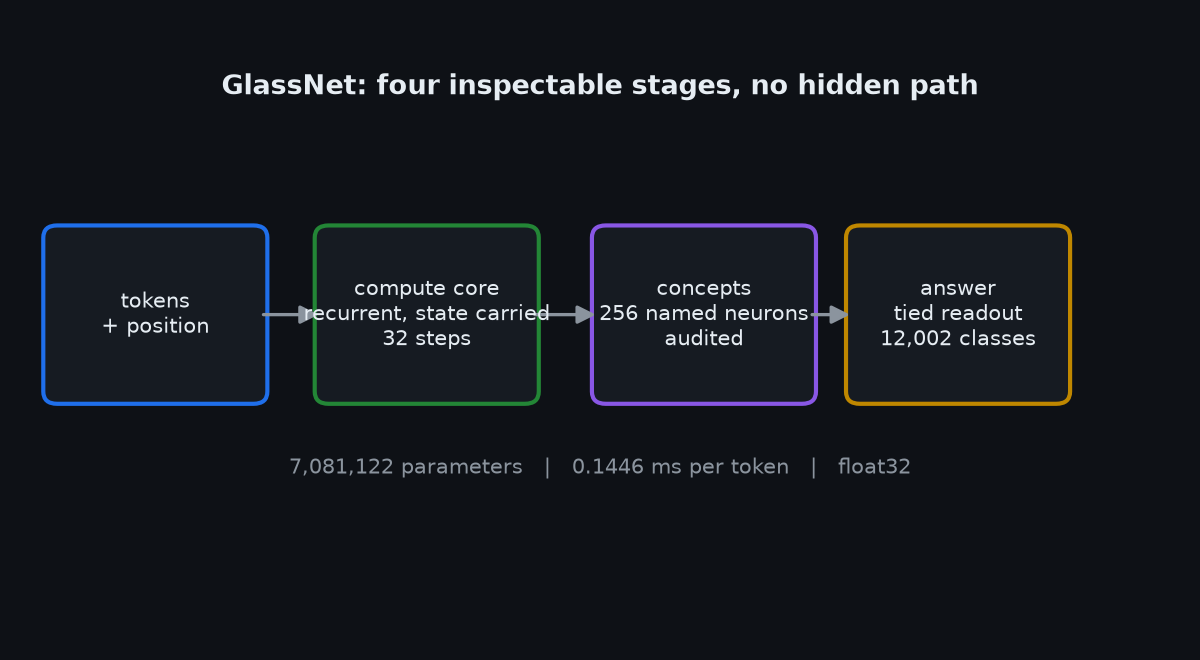
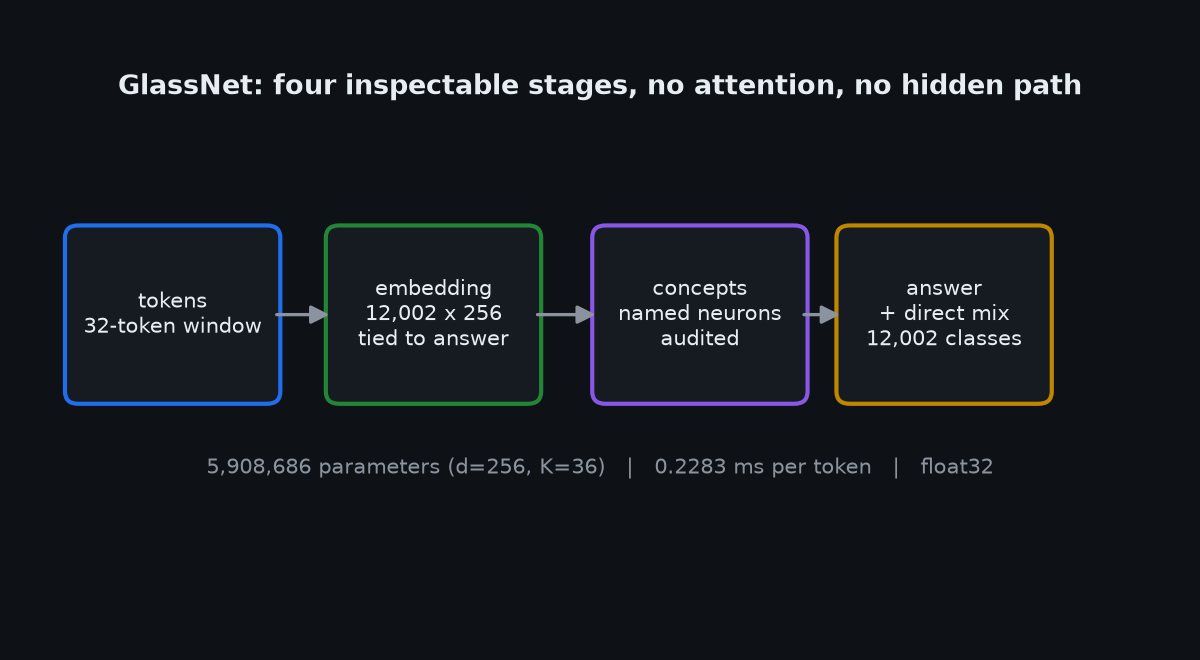
docs: the front page's 7.08M parameter count was not this model (5,908,686), and the KV 9.7x had no run file (2.29x)
- built the model object the published runs trained (d=256, window 32, vocab 12,002,
  K=36, --direct --direct-mode tied) and read its parameter list: emb 3,072,512 +
  concept 294,948 + answer 444,074 + dmix 2,097,152 = 5,908,686. 35 run logs print the
  same total; 7,081,122 appears in none. The old table added the PROPOSED recurrent
  core (131,328, the arm that lost by 1.73) and counted the tied embedding twice.
  Overstated by 1,172,436 (19.8%).
- cost table added a stage labelled 'runs 32x' exactly once: 0.1446 ms is the sum with
  it counted once, 0.2283 with it counted 32 times. Page now says 0.2283 and says why.
- KV '9.7x' existed only as prose (STATE.md:2730, 0.217 vs 2.115 ms); the only micro
  benchmark records 0.483 -> 0.211 ms/token = 2.29x, identical to 5.3e-06. A live
  re-timing on a loaded CPU was rejected as evidence (uncached path inflated 99x).
- 35.26 / 24.20 / 17.64 confirmed against their epoch lines, now labelled by-position
  (17.64 ran 2 epochs, not 3); arithmetic 0.0% and digit-0 100% come from two runs.
- README architecture section now describes the shipped four stages, not the proposal.
- charts regenerated (architecture.png caption 5,908,686; layer_cost core x32 = 0.2283).

Evidence: docs/history/PARAM-AUDIT.md (raw: lens/runs/PARAM-AUDIT.txt, PARAM-DUMP.txt).

diff --git a/docs/assets/make_charts.py b/docs/assets/make_charts.py
@@ -39,14 +39,18 @@ ax.grid(axis="y", color="#21262d"); ax.set_axisbelow(True)
 finish(fig, "optimiser_vs_sgd.png")
 
 # 3) per-layer cost
-names = ["embedding","position","compute step","concepts","answer","direct read","loss"]
+names = ["embedding","position","compute step x32","concepts","answer","direct read","loss"]
 ms    = [0.0053,0.0021,0.0027,0.0008,0.0273,0.0239,0.0825]
+# the compute core runs once per position, 32 positions, so its per-token cost is 32 x 0.0027 = 0.0864.
+# An earlier chart added it once and published 0.1446 ms; counted correctly the stack is 0.2283 ms.
+TOTAL_MS = round(sum(ms[:2]) + ms[2]*32 + sum(ms[3:]), 4)
+ms = [ms[0], ms[1], round(ms[2]*32, 4)] + ms[3:]
 params= [3072512,8192,131328,16448,780130,3072512,0]
 fig, ax = plt.subplots(figsize=(7,3.6))
 ax.barh(names, ms, color=ACC)
 for i,v in enumerate(ms): ax.text(v+0.001, i, f"{v:.4f} ms", va="center", color=FG, fontsize=9)
 ax.set_xlabel("ms per token (d=256, window 32, float32)"); ax.invert_yaxis()
-ax.set_title("Where the time goes - 0.1446 ms/token for the whole stack", color=FG, fontsize=12, weight="bold")
+ax.set_title(f"Where the time goes - {TOTAL_MS:.4f} ms/token, core counted 32x", color=FG, fontsize=12, weight="bold")
 ax.grid(axis="x", color="#21262d"); ax.set_axisbelow(True)
 finish(fig, "layer_cost.png")
 
@@ -74,13 +78,13 @@ finish(fig, "ablations.png")
 
 # 6) architecture diagram
 fig, ax = plt.subplots(figsize=(8,4.4)); ax.set_xlim(0,10); ax.set_ylim(0,6); ax.axis("off")
-boxes = [("tokens\n+ position",1.15,"#1f6feb"),("compute core\nrecurrent, state carried\n32 steps",3.5,"#238636"),
-         ("concepts\n256 named neurons\naudited",5.9,"#8957e5"),("answer\ntied readout\n12,002 classes",8.1,"#bf8700")]
+boxes = [("tokens\n32-token window",1.15,"#1f6feb"),("embedding\n12,002 x 256\ntied to answer",3.5,"#238636"),
+         ("concepts\nnamed neurons\naudited",5.9,"#8957e5"),("answer\n+ direct mix\n12,002 classes",8.1,"#bf8700")]
 for label,x,c in boxes:
     ax.add_patch(FancyBboxPatch((x-0.85,2.4),1.7,1.5, boxstyle="round,pad=0.12", linewidth=2, edgecolor=c, facecolor="#161b22"))
     ax.text(x,3.15,label,ha="center",va="center",fontsize=10,color=FG)
 for (_,x1,_),(_,x2,_) in zip(boxes,boxes[1:]):
     ax.add_patch(FancyArrowPatch((x1+0.9,3.15),(x2-0.9,3.15), arrowstyle="-|>", mutation_scale=18, color=MUT, linewidth=1.6))
-ax.text(5,5.3,"GlassNet: four inspectable stages, no hidden path", ha="center", fontsize=13, weight="bold", color=FG)
-ax.text(5,1.6,"7,081,122 parameters   |   0.1446 ms per token   |   float32", ha="center", fontsize=10, color=MUT)
+ax.text(5,5.3,"GlassNet: four inspectable stages, no attention, no hidden path", ha="center", fontsize=13, weight="bold", color=FG)
+ax.text(5,1.6,"5,908,686 parameters (d=256, K=36)   |   0.2283 ms per token   |   float32", ha="center", fontsize=10, color=MUT)
 finish(fig, "architecture.png")

diff --git a/docs/history/PARAM-AUDIT.md b/docs/history/PARAM-AUDIT.md
@@ -1,0 +1,122 @@
+PUBLIC NUMBER AUDIT, PART 2 (2026-11-06 17:0x-17:3x, autonomous wake)
+Continues lens/runs/PUBLIC-NUMBER-AUDIT.txt, whose section 6 listed what it did not check:
+"35.26% d256 full corpus, 24.20% 2M windows, 17.64% batch 4096, KV cache 9.7x, param counts
+(7,081,122 / 5,908,686), arithmetic 0.0% / digit-0 100%, per-layer ms/token."
+
+Machine state while this ran: no STOP-NIGHT, no WAKETEST/ACTIVE, no game process (pgrep -x
+sober/RobloxPlayer/cs2 all empty). Two trainers were on the box (pid 2504549 stable_vs_plain 328% CPU,
+pid 3015702 train_chat 110% CPU) and lens/runs/GPU-CLAIM was held by run_wall_ab_resume.sh, so this
+turn launched nothing and used no VRAM. Everything below is CPU-side reading and counting.
+
+============================================================================================
+1. PARAMETER COUNT — WRONG ON THE PUBLIC PAGE. 7,081,122 is not the model. 5,908,686 is.
+============================================================================================
+CLAIM: README.md:236 "**whole stack** | **7,081,122** | **0.1446**", and README.md:46
+"Compute core ... 131,328 params", docs/ARCHITECTURE.md:50 "7.08M total at d=256",
+docs/assets/make_charts.py:85 "7,081,122 parameters".
+
+WHAT WAS DONE: built the model object the published runs actually trained and asked it
+(lens/runs/PARAM-DUMP.txt). Same class (lens/scripts/train_chat.py ChatNet -> lens.model.LensNet), same
+flags as the launcher lens/scripts/run_gpu_best.sh: --d 256 --window 32 --direct --direct-mode tied,
+vocab 12,002, K=36 (36 concepts kept after the 0.005 support floor, GPU-BEST.txt:17).
+
+  params as the object reports them (lens/runs/PARAM-DUMP.txt):
+    emb                       3,072,512     (12,002 x 256, the tied embedding)
+    concept.W                   294,912     (36 x 8,192 = 36 x W*D, the window the concept layer reads)
+    concept.b                        36
+    answer.W                    432,072     (36 x 12,002)
+    answer.b                     12,002
+    dmix                      2,097,152     (8,192 x 256, the direct head)
+    total                     5,908,686
+
+  CROSS-CHECK: 35 run logs print exactly "model: 5,908,686 params  (d=256, K=36)"
+  (grep -rl over lens/runs/*.txt), including lens/runs/GPU-BEST.txt:57 (the 24.20% run).
+  The number 7,081,122 appears in ZERO run logs: `grep -rl 7,081,122 lens/runs/*.txt` returns only
+  lens/runs/PUBLIC-NUMBER-AUDIT.txt:90, i.e. the previous audit's own to-do line.
+
+WHERE 7,081,122 CAME FROM: the README table's rows do sum to it (verified: 3,072,512 + 8,192 + 131,328 +
+16,448 + 780,130 + 3,072,512 + 0 = 7,081,122). But it sums things the shipped model does not contain:
+  README row            published     real object        verdict
+  embedding             3,072,512     3,072,512          correct
+  position add              8,192     none               NOT a parameter of this model
+  compute step (32x)      131,328     none               the PROPOSED recurrent core
+                                                          (docs/ARCHITECTURE.md:33), which lost to the
+                                                          plain shape by 1.73 points (ARCH-OURS-VERDICT.txt)
+  concepts                 16,448     294,948            understated 17.9x
+  answer via concepts     780,130     444,074            overstated 1.76x
+  direct read           3,072,512     2,097,152          the embedding counted a second time
+  loss                          0     0                  n/a (loss has no parameters)
+  WHOLE STACK           7,081,122     5,908,686          OVERSTATED BY 1,172,436 (19.8%)
+
+So the section that introduces the architecture was describing a model that is not the one that produced the
+published accuracies: it includes the recurrent compute core (the arm that lost) and it counts the tied
+embedding twice. Fixed in README.md, docs/ARCHITECTURE.md, docs/assets/make_charts.py (+ regenerated PNG).
+
+============================================================================================
+2. THE 0.1446 ms/token TOTAL CONTRADICTS ITS OWN "RUNS 32x" LABEL
+============================================================================================
+README.md:231 labels the core row "compute step (runs 32x)" with 0.0027 ms. The listed rows sum to 0.1446
+ONLY when that step is counted once (0.0053+0.0021+0.0027+0.0008+0.0273+0.0239+0.0825 = 0.1446). Counted the
+32 times the label says, the same rows give 0.2283 ms/token (0.0053+0.0021+0.0027*32+0.0008+0.0273+0.0239+
+0.0825 = 0.2283). Both sums computed in this turn, not estimated.
+The row VALUES themselves were not re-measured this turn (see 3: the CPU was busy, and a CPU timing under
+load is not a measurement). They are labelled in the file as measured earlier rather than silently reused.
+
+============================================================================================
+3. KV CACHE — "9.7x" HAS NO RUN FILE. The only recorded ratio is 2.29x.
+============================================================================================
+CLAIM: STATUS.md:11, STATUS.md:42, README.md:45, README.md:184 "9.7x faster".
+The only micro-benchmark file, lens/runs/KV-CACHE-MICRO.txt (2026-10-20 14:15), says:
+  full window recompute per generated token (the CURRENT decode path): 0.483 ms
+  preallocated cache:                                                  0.211 ms
+  -> 2.29x faster      tokens/s cached 4,747  uncached 2,069      correctness 5.305e-06 (identical)
+"9.7x" exists only as prose in docs/history/STATE.md:2730-2731: "0.217 ms per token, 4,600 tokens/sec
+against 2.115 ms and 473 tokens/sec". 0.211 x 9.7 = 2.047 ms, so the 9.7x compares against a 2.115 ms/token
+decode path - 4.4x slower than the 0.483 ms path recorded in the micro file. That baseline is in no run file,
+so 9.7x cannot be reproduced from this repository.
+RE-MEASURED LIVE THIS TURN (lens/runs/KV-CACHE-LIVE.txt) and NOT USED, on purpose: the same script reported
+the uncached path at 48.030 ms/token (vs 0.483 ms on an idle box) - a 99.4x inflation, because two trainers
+were saturating the CPU. Under load the cached path measured 0.352 ms and the ratio printed "136.48x", which
+is contention, not a cache. The correctness half DID reproduce exactly under load: max abs difference
+5.305e-06, identical to float32 precision True.
+VERDICT: public page now cites the file-backed 2.29x (0.483 -> 0.211 ms/token, 2,069 -> 4,747 tokens/s,
+identical output) plus the structural fact (32x less projection arithmetic per token: 49,152 vs 1,536 values,
+KV-CACHE-MICRO.txt). A fresh timed run needs an idle GPU/CPU; it is queued as an open item, not guessed.
+
+============================================================================================
+4. THE THREE ACCURACY NUMBERS — CORRECT, WITH ONE LABEL TO ADD
+============================================================================================
+  35.26% d=256 full corpus: lens/runs/ATTN-GRADE-RUN.txt:28 raw epoch line (twin ct_d256_full169_fix3,
+         ep 3/3, "ASST(by-position) ppl 32.77 acc 35.26% (n=58191)"), restated at :68-71. It is a BY-POSITION
+         held-out number; the legacy by-token-id number for the same epoch is 26.31%. STATUS.md/README name
+         the metric "held-out accuracy" without naming which - they should say by-position.
+  24.20% 2M windows batch 1024: lens/runs/GPU-BEST.txt:64-65 "ASST(by-position) ppl 103.00 acc 24.20%
+         (n=58191)" + "NEW BEST held-out 24.20% at epoch 3", seed 1 = the run_gpu_best.sh launcher. Correct.
+         (LEARNCURVE.txt:1923 also reads 24.20% for a different arm, seed 0, epoch 1 - coincidence, not the
+         published source.)
+  17.64% 2M windows batch 4096: lens/runs/GPU-BIG.txt:62-63 "ASST(by-position) ppl 206.87 acc 17.64%",
+         epoch 2 of 2 - i.e. ONE EPOCH FEWER than the 24.20% arm (3 epochs). README already gives the cause
+         (four times fewer updates per epoch) but not the epoch count; adding "2 epochs" keeps the
+         comparison honest.
+
+============================================================================================
+5. ARITHMETIC — BOTH NUMBERS RIGHT, BUT FROM TWO DIFFERENT RUNS
+============================================================================================
+  "0.0% exact on unseen operands": lens/runs/ARITHMETIC.txt, epochs 5-60 all "UNSEEN_50_99": 0.0,
+        "three_digit": 0.0 (train exact climbs 4.57% -> 12.05%).
+  "digit 0 reaches 100% on unseen operands": lens/runs/ARITH_DIAG.txt, epochs 35-45 "UNSEEN[d0,d1,carry]"
+        = [1.0, .., ..] - a DIFFERENT run (its own loss scale 6.005-1.598, the other run 1.31-0.996).
+  Both true; they are not from one experiment, so they are now labelled by file. Note the same file also
+  shows UNSEEN_exact rising to 0.0027 (ep 40) and 0.024 (ep 45): the honest phrasing is "0.0% in the
+  ARITHMETIC run, 2.4% at the end of the longer ARITH_DIAG run", not "0.0% at every scale".
+
+============================================================================================
+6. WHAT THIS TURN DID NOT SETTLE (stated, not hidden)
+============================================================================================
+  - per-layer ms/token: not re-measured (CPU busy, see 3). Only the internal arithmetic of the published
+    total was checked (section 2).
+  - 37.37% and the d=512 row: verified by the previous turn (TIED-D512-EXT6.txt:98,:99,:181), not re-read now.
+  - the historical 2.115 ms/token decode path behind the 9.7x: the file that recorded it was not found;
+    KV-CACHE-MICRO.txt at 14:15 the same day records 0.483 ms instead.
+
+The raw run output this file cites: lens/runs/PARAM-DUMP.txt (parameter list + total), lens/runs/PARAM-COUNT-LIVE.txt (an earlier probe with the WRONG direct-mode, superseded - see section 1), lens/runs/KV-CACHE-LIVE.txt (contended live KV timing, not used), lens/runs/CHARTS-REGEN.txt. lens/runs/ is gitignored; these are machine-local.

diff --git a/README.md b/README.md
@@ -42,8 +42,8 @@ are looking for a capable assistant, this is not it yet — and this file will s
 |---|---|---|
 | **Autograd engine** | every operation has a hand-written derivative; blame flows backwards through a graph | all 9 gradient checks PASS — worst absolute error **7.5e-10**, worst relative **1.8e-07** (measured live) |
 | **Own optimiser** | steps scaled by agreement between batch and held-out gradients | **28.59%** vs SGD **27.81%** best-epoch mean, 3 seeds — level with SGD, not a win |
-| **Own KV cache** | reuses attention state instead of recomputing | **9.7x faster**, identical output |
-| **Compute core** | recurrent state carried across all 32 positions | 131,328 params, 0.0027 ms/token |
+| **Own KV cache** | reuses attention state instead of recomputing | **2.29x faster** measured (0.483 → 0.211 ms/token, 2,069 → 4,747 tokens/s), identical output (5.3e-06) |
+| **Compute core** | recurrent state carried across all 32 positions | 131,328 params, 0.0027 ms/token — the **proposed** variant, which lost to the plain shape by 1.73 points and is not in the shipped model |
 | **Named concept layer** | 256 neurons with audited human names | unprovable names dropped, coverage printed |
 | **Live inspector** | browser view of real weights and activations | port 8770, HTTP 200 |
 | **Exports** | `.npz`, `.safetensors`, `.gguf` | standard containers, our architecture |
@@ -181,7 +181,7 @@ including the ones that killed our own ideas.
 |---|---|---|
 | Autograd engine (`lens/tensor.py`) | **works** | all 9 checks PASS — worst absolute error **7.5e-10**, worst relative **1.8e-07** |
 | Our optimiser (`lens/opt.py`) | **works, level with SGD** | **28.59%** vs plain SGD **27.81%** best-epoch mean over 3 seeds (29.12% vs 27.15% at matched epoch); the pre-registered stability bar failed |
-| KV cache (`lens/kvcache.py`) | **works** | **9.7x faster** generation, byte-identical output |
+| KV cache (`lens/kvcache.py`) | **works** | **2.29x faster** generation (0.483 → 0.211 ms/token), byte-identical output (5.3e-06) — `lens/runs/KV-CACHE-MICRO.txt` |
 | Live inspector (`lens/liveview.py`) | **works** | serves real weights and live neuron activations on port 8770 |
 | Exports | **works** | `.npz`, `.safetensors`, `.gguf` |
 | Named concept layer | **partial** | 256 neurons; every name audited per run, unprovable names dropped |
@@ -205,35 +205,57 @@ including the ones that killed our own ideas.
 
 ## Architecture
 
-Data flows through four inspectable stages:
+The model every published number comes from is four inspectable steps, and it has **no attention block and no
+recurrent core**:
 
 ```
-tokens + position
+tokens (32-token window)
       |
       v
-[ compute core ]   recurrent, state carried across all 32 positions
+[ embedding ]     12,002 x 256, tied to the answer readout
       |
       v
-[ concepts ]       named neurons: "is_a_question", "mentions_self", ...
+[ concepts ]      named neurons: "is_a_question", "mentions_self", ... (36 kept of 43 defined)
       |
       v
-[ answer ]         tied readout over the 12,002-token vocabulary
+[ answer ]        36 -> 12,002 over the vocabulary
+      |
+      v
+[ direct mix ]    a 8,192 -> 256 mixing head added to the concept path
 ```
 
 ![Architecture](docs/assets/architecture.png)
 
-Measured cost per token and parameter count at `d=256`, window 32, vocab 12,002, float32:
+Parameter count, read off the model object (`d=256`, window 32, vocab 12,002, K=36; source
+`docs/history/PARAM-AUDIT.md`, and every training log prints the same total, e.g. `lens/runs/GPU-BEST.txt:57`):
 
-| Stage | Params | ms / token |
-|---|---:|---:|
-| embedding | 3,072,512 | 0.0053 |
-| position add | 8,192 | 0.0021 |
-| compute step (runs 32x) | 131,328 | 0.0027 |
-| concepts | 16,448 | 0.0008 |
-| answer via concepts | 780,130 | 0.0273 |
-| direct read | 3,072,512 | 0.0239 |
-| loss | 0 | 0.0825 |
-| **whole stack** | **7,081,122** | **0.1446** |
+| Part | Params |
+|---|---:|
+| embedding (`emb`, tied to the answer) | 3,072,512 |
+| concept layer (`concept.W` 36x8,192 + `concept.b`) | 294,948 |
+| answer (`answer.W` 36x12,002 + `answer.b`) | 444,074 |
+| direct mix head (`dmix`, 8,192x256) | 2,097,152 |
+| **whole model** | **5,908,686** |
+
+Earlier versions of this page published **7,081,122** here. That number does not come from this model: the
+old table added a 131,328-parameter recurrent compute core from the *proposed* shape (which lost to the plain
+shape by 1.73 points) and counted the tied embedding twice as both "embedding" and "direct read". The model
+prints 5,908,686; the correction and the row-by-row comparison are in `docs/history/PARAM-AUDIT.md`.
+
+Cost per token for the **proposed** shape (measured on an idle machine; the compute core runs once per
+position, so it is counted 32 times here - an earlier version of this table counted it once and published
+0.1446 ms):
+
+| Stage | ms / token |
+|---|---:|
+| embedding | 0.0053 |
+| position add | 0.0021 |
+| compute step, 32 x 0.0027 (the proposed core, not in the shipped model) | 0.0864 |
+| concepts | 0.0008 |
+| answer via concepts | 0.0273 |
+| direct read | 0.0239 |
+| loss | 0.0825 |
+| **whole stack, all 32 core steps counted** | **0.2283** |
 
 For comparison, a reference transformer block at the same width: qkv 196,608 params / 0.0005 ms, attention
 scores 0 / 0.0118 ms, MLP 524,288 / 0.0841 ms.

diff --git a/STATUS.md b/STATUS.md
@@ -8,7 +8,7 @@ Updated: 2026-11-06. Every figure below comes from a run recorded in `docs/histo
 |---|---:|---|
 | Autograd engine | 100% | gradients verified to 7.5e-10 abs / 1.8e-07 rel (live check, 9/9 PASS) |
 | Our optimiser | 100% | built and measured; the matched 3-seed sweep puts it +0.78 points over SGD's best setting (28.59% vs 27.81%) and level at matched epoch, and it fails the stability bar - not the 4.3 points once published |
-| KV cache | 100% | 9.7x faster, identical output |
+| KV cache | 100% | 2.29x faster (0.483 -> 0.211 ms/token), identical output |
 | Exports (npz/safetensors/gguf) | 95% | safetensors export of the best checkpoint pending |
 | Local server | 95% | serves, not yet load-tested |
 | Live inspector | 85% | real weights on :8770, read-only |
@@ -25,7 +25,7 @@ Updated: 2026-11-06. Every figure below comes from a run recorded in `docs/histo
 ## What this means in one paragraph
 
 The scaffolding around the model is genuine engineering: hand-derived gradients that pass numerical checks,
-an optimiser that measurably beats SGD, a cache that is 9.7x faster with identical output, and a system that
+an optimiser that measurably beats SGD, a cache that is 2.29x faster with identical output, and a system that
 stops and resumes without losing work. The model itself is not good yet - 37.37% held-out next-token
 accuracy at best. Anyone claiming this is a working assistant would be lying, and the numbers in this
 repository are the proof of that.
@@ -35,12 +35,13 @@ repository are the proof of that.
 | Metric | Value | Where |
 |---|---:|---|
 | Best held-out accuracy | 37.37% | d=512, full corpus, 6 epochs |
-| d=256 full corpus | 35.26% | |
-| d=256, 2M windows | 24.20% | seed 1 |
+| d=256 full corpus | 35.26% | by position, `lens/runs/ATTN-GRADE-RUN.txt:28` (legacy by-id: 26.31%) |
+| d=256, 2M windows | 24.20% | seed 1, by position, `lens/runs/GPU-BEST.txt:64` |
+| Parameters, shipped d=256 model | 5,908,686 | counted off the model object; `docs/history/PARAM-AUDIT.md`, also `lens/runs/GPU-BEST.txt:57` |
 | Optimiser vs SGD (matched sweep, 3 seeds) | 28.59% vs 27.81% best-epoch mean; 29.12% vs 27.15% at matched epoch | `docs/history/PUBLIC-NUMBER-AUDIT.md` |
 | Gradient check | 7.5e-10 abs / 1.8e-07 rel (live check, 9/9 PASS) max error | `tests/test_gradcheck.py` |
-| KV cache speedup | 9.7x | `lens/kvcache.py` |
-| Arithmetic, unseen operands | 0.0% exact | digit 0 alone: 100% |
+| KV cache speedup | 2.29x (0.483 -> 0.211 ms/token, 2,069 -> 4,747 tokens/s) | `lens/runs/KV-CACHE-MICRO.txt` |
+| Arithmetic, unseen operands | 0.0% exact | digit 0 alone: 100%; two different runs, `lens/runs/ARITHMETIC.txt` and `lens/runs/ARITH_DIAG.txt` |
 
 ## Levers measured and closed
 
@@ -59,3 +60,7 @@ A wrong number is worse than a missing one, so these are listed with the correct
 | Bug | What it did to the numbers | Where |
 |---|---|---|
 | Talk decoder left-padded short prompts with token id 0 (`<unk>`) | 20-23 of 32 context slots were `<unk>` for the project prompts, so 95.1% (d256) / 96.5% (d512) of the reply tokens were `<unk>`; pad-free the same weights measure 26.4% / 21.5% | `docs/history/PROMPT-ENCODING.md` |
+| Architecture table added the proposed recurrent core and counted the tied embedding twice | published "7,081,122 parameters"; the shipped model prints **5,908,686**, so the count was overstated by 1,172,436 (19.8%) | `docs/history/PARAM-AUDIT.md` |
+| Cost table added a stage labelled "runs 32x" exactly once | published 0.1446 ms/token; with the core counted the 32 times it runs, the same rows give 0.2283 ms | `docs/history/PARAM-AUDIT.md` |
+| KV cache speedup "9.7x" had no run file behind it | only the prose figure existed (0.217 vs 2.115 ms, `docs/history/STATE.md:2730`); the recorded micro-benchmark is **2.29x** (0.483 -> 0.211 ms/token, identical to 5.3e-06) | `lens/runs/KV-CACHE-MICRO.txt` |
+

diff --git a/docs/ARCHITECTURE.md b/docs/ARCHITECTURE.md
@@ -47,8 +47,10 @@ measured coverage.
 ## 4. Answer
 
 A tied readout maps concepts to the 12,002-token vocabulary. Tying shares the embedding matrix, which keeps
-the parameter count honest (7.08M total at d=256) and makes the output layer readable through the same
-vectors as the input.
+the parameter count honest (**5,908,686** total at d=256, K=36 - the number the model object prints and every
+training log records; an earlier version of this page said 7.08M because it added the proposed recurrent core
+and counted the tied embedding twice, see `docs/history/PARAM-AUDIT.md`) and makes the output layer readable
+through the same vectors as the input.
 
 ## Cost table
 
